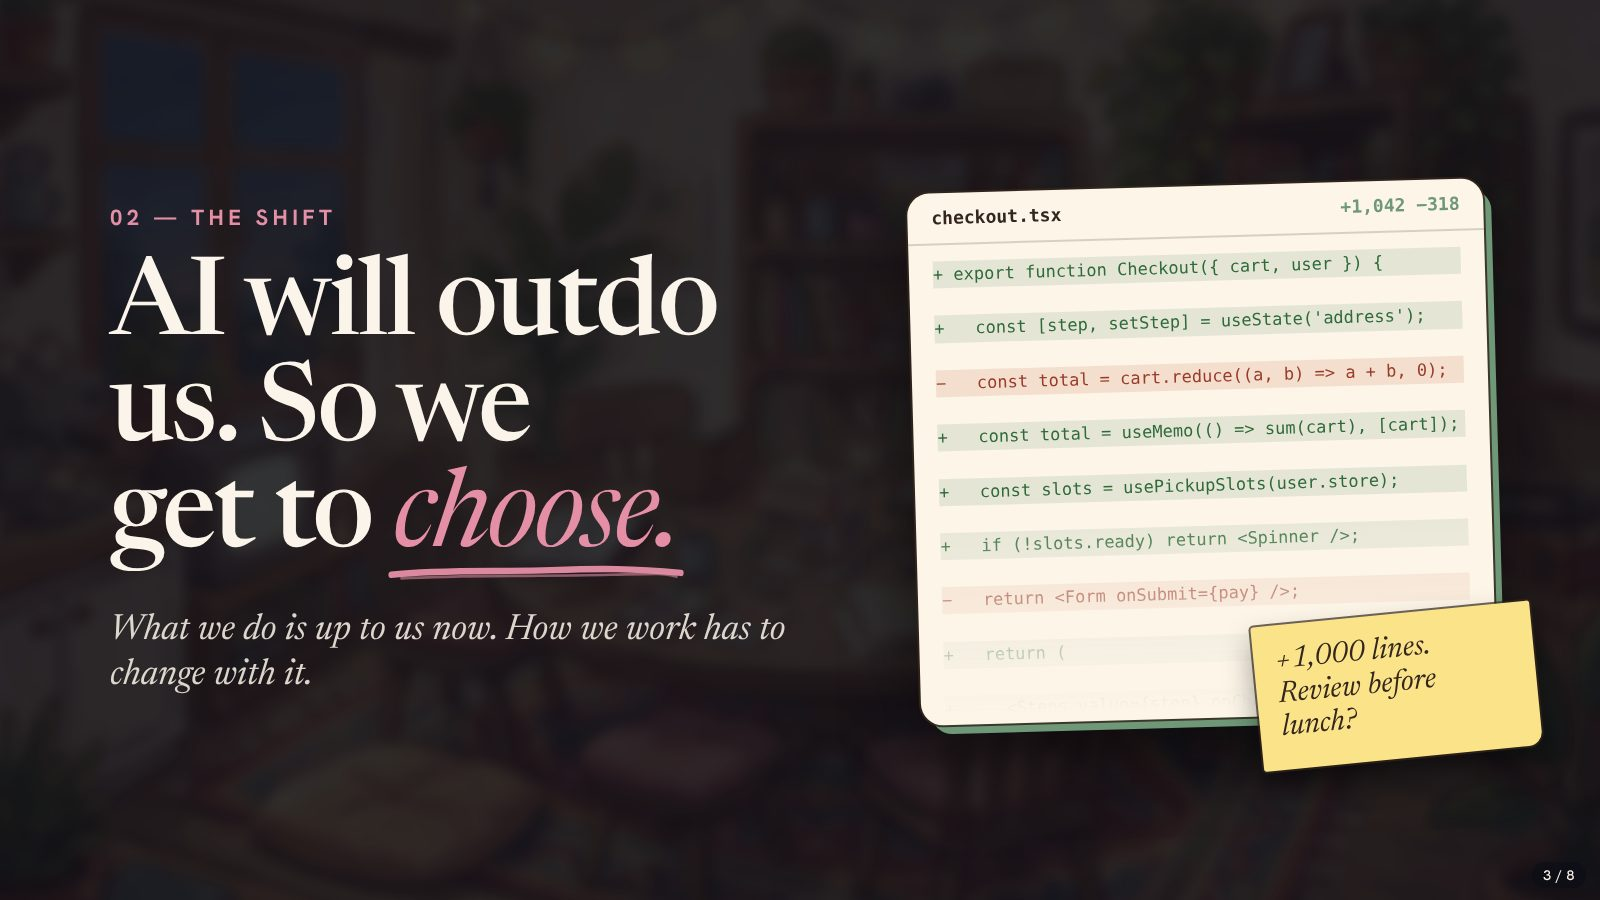
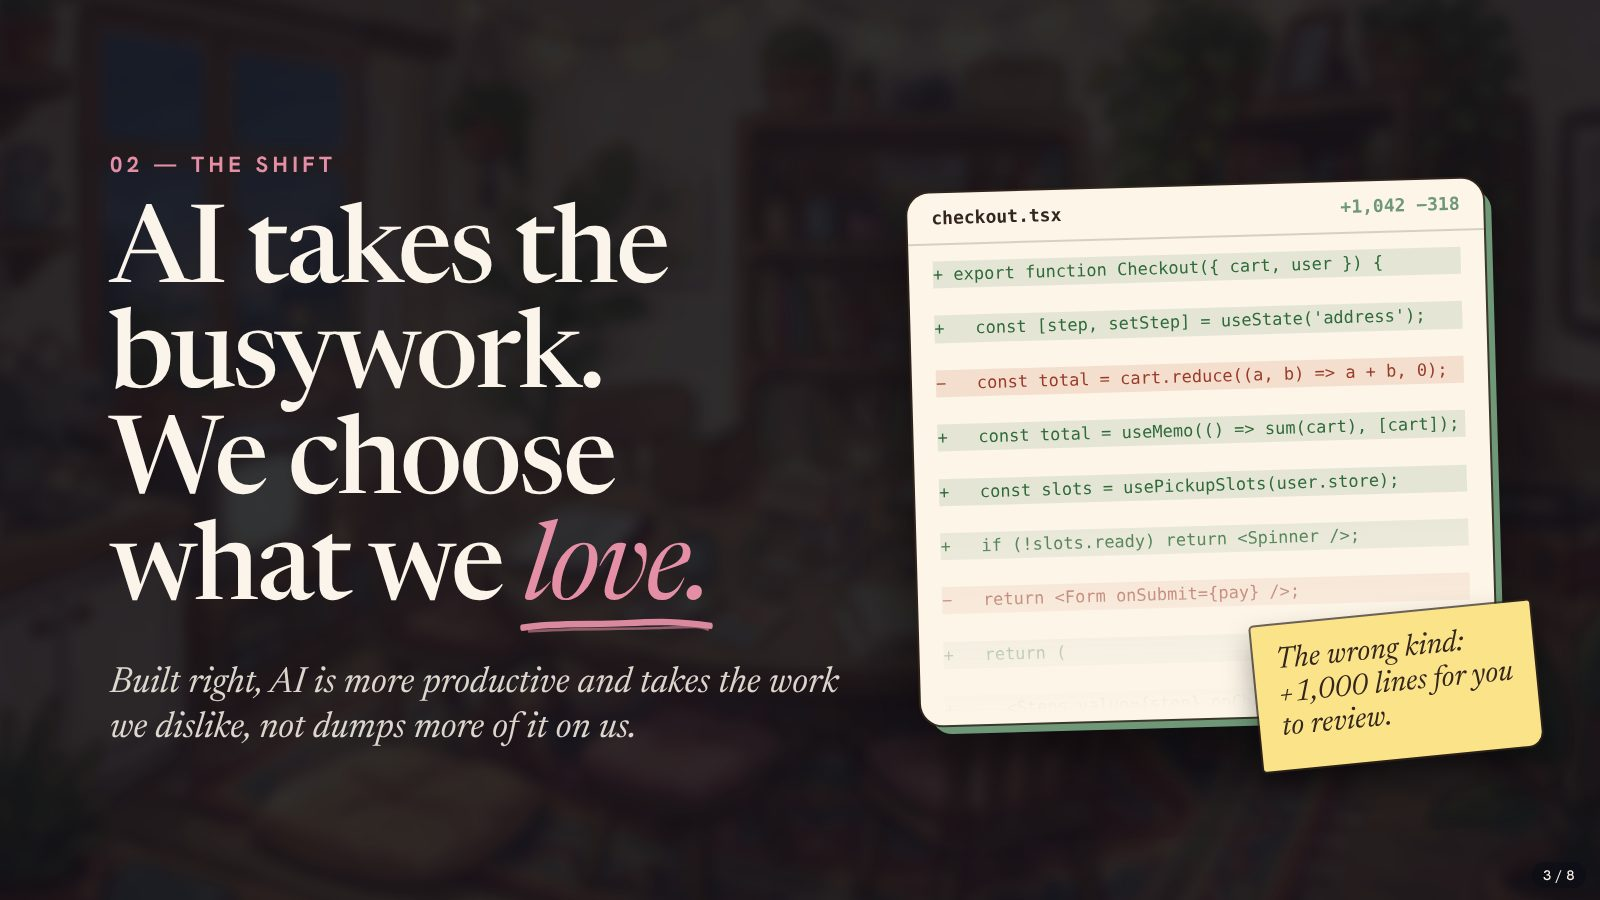
Talk deck: slide 3 says AI takes the busywork and we choose what we love; slide 6 says only the decisions you love

diff --git a/public/slides/talk.html b/public/slides/talk.html
@@ -107,8 +107,8 @@
     <div class="room"></div>
     <div class="words">
       <p class="kicker">02 — The shift</p>
-      <h1 class="headline">AI will outdo us. So we get to <em class="accent">choose.</em></h1>
-      <p class="caption">What we do is up to us now. How we work has to change with it.</p>
+      <h1 class="headline">AI takes the busywork. We choose what we <em class="accent">love.</em></h1>
+      <p class="caption">Built right, AI is more productive and takes the work we dislike, not dumps more of it on us.</p>
     </div>
     <div class="art">
       <div class="paper diff tilt-l" style="--cr: var(--cr-data)">
@@ -128,7 +128,7 @@
 <span class="add">+     &lt;/Steps&gt;</span>
 <span class="add">+   );</span>
 <span class="add">+ }</span></pre>
-        <p class="sticky">+1,000 lines. Review before lunch?</p>
+        <p class="sticky">The wrong kind: +1,000 lines for you to review.</p>
       </div>
     </div>
   </section>
@@ -166,7 +166,7 @@
     <p class="kicker over">05 — How it feels</p>
     <div class="grid">
       <figure class="paper clip tilt-l" style="--cr: var(--cr-product)"><img src="img/nametag.webp" alt="Her name tag"><figcaption class="sticky">Bring your best self</figcaption></figure>
-      <figure class="paper clip tilt-r" style="--cr: var(--cr-design)"><img src="img/unblock.webp" alt="Only the questions that matter reach her"><figcaption class="sticky">Only the decisions that matter</figcaption></figure>
+      <figure class="paper clip tilt-r" style="--cr: var(--cr-design)"><img src="img/unblock.webp" alt="Only the questions she loves reach her"><figcaption class="sticky">Only the decisions you love</figcaption></figure>
       <figure class="paper clip tilt-r" style="--cr: var(--cr-data)"><img src="img/tidy.webp" alt="Her words, tidied"><figcaption class="sticky">Your voice, heard</figcaption></figure>
       <figure class="paper clip tilt-l" style="--cr: var(--cr-engineering)"><img src="img/meeting.webp" alt="A meeting with the team"><figcaption class="sticky">A safe room to think out loud</figcaption></figure>
     </div>

diff --git a/README.md b/README.md
@@ -17,7 +17,7 @@ Building with AI today pulls me away from my craft. Coding agents ask about ever
 me: approvals, "continue?", questions nobody signed up for. AI app builders assume everything, so my judgement never
 gets in. Both get it backwards: they hand me the busywork and take away the judgement.
 
-![Slide 3, the shift: AI will outdo us, so we get to choose](docs/readme/slides/03-the-shift.jpg)
+![Slide 3, the shift: AI takes the busywork, so we choose what we love](docs/readme/slides/03-the-shift.jpg)
 It doesn't have to be that way. AI will be more productive than us at much of the work. Built the right way, it
 takes the busywork we dislike and leaves the judgement with us.
 
@@ -30,7 +30,7 @@ So I built a team that works that way. You take the seat of your craft; agents t
 work, and bring you only the few big questions about what you love, your craft among them. The result is what I wanted all along: 90% of
 your time on the craft you love, in flow.
 
-![Slide 6, how it feels: four real clips of the product](docs/readme/slides/06-how-it-feels.jpg)
+![Slide 6, how it feels: four real clips of the product, and only the decisions you love reach you](docs/readme/slides/06-how-it-feels.jpg)
 Here's how that feels, in real clips from the product. The team gets to know you. When you speak, your words are
 kept and the team builds on them. You only see the decisions that matter, and when one reaches you, the room goes
 quiet: just you and the question.
